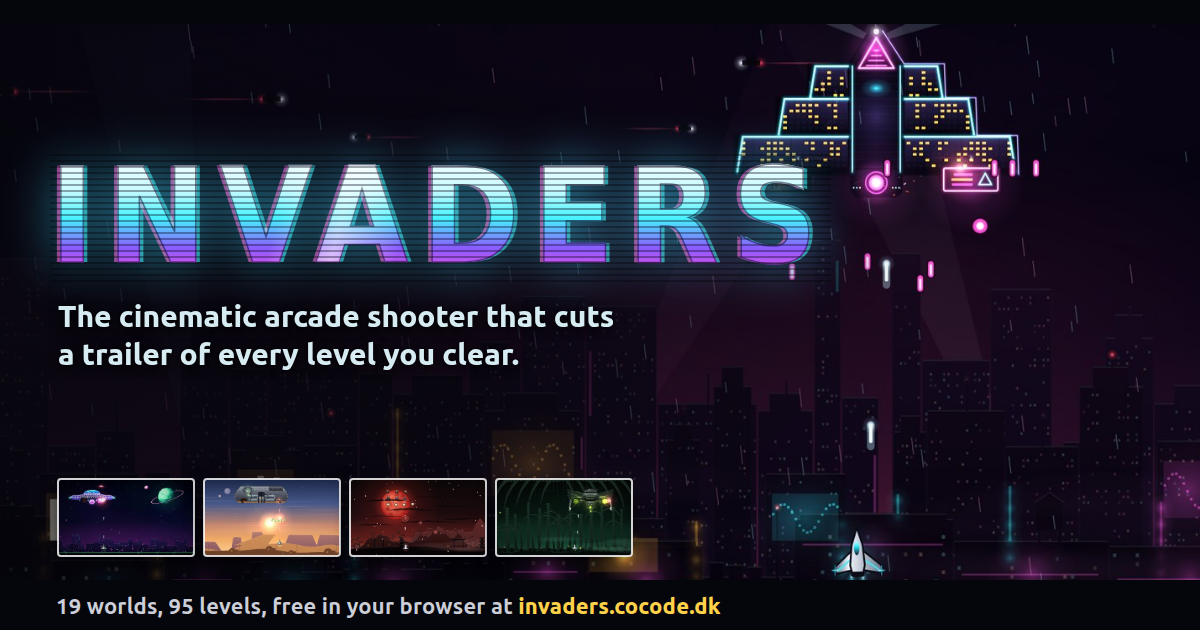
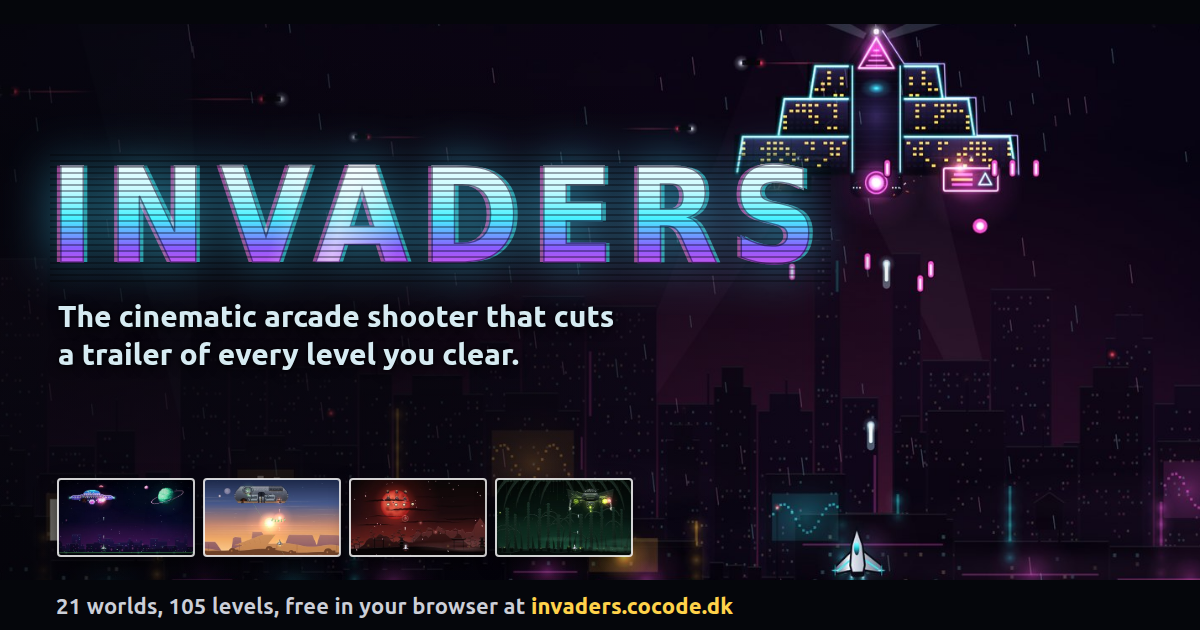
chore: remove the bare lean agent copies; the landing page and social card say 21 worlds (#29)
* chore: remove the bare lean agent copies and name 21 worlds on the landing page

The three files in .claude/agents were copies from the first text of the
session skill; the graph plugin now brings its own agents.
index.html still said 19 worlds and 95 levels.

* fix(og): the social card says 21 worlds, 105 levels

og.html carries the new counts and og.png is the old image with the
bottom bar re-rendered from it: the two differ only inside the text's
box, (56, 596) to (734, 618).

---------

Changed region(s): [[0.1233, 0.9349, 0.6167, 0.9952], [0.0308, 0.9349, 0.0617, 0.9651]]

diff --git a/index.html b/index.html
@@ -9,21 +9,21 @@
   <meta charset="utf-8">
   <meta name="viewport" content="width=device-width, initial-scale=1">
   <title>Invaders — a cinematic arcade shooter in your browser</title>
-  <meta name="description" content="Free cinematic arcade shooter in your browser: 19 worlds, 95 levels, bosses and power-ups. Clear a level and the game cuts a trailer of your own run.">
+  <meta name="description" content="Free cinematic arcade shooter in your browser: 21 worlds, 105 levels, bosses and power-ups. Clear a level and the game cuts a trailer of your own run.">
   <meta name="robots" content="index, follow">
   <meta name="theme-color" content="#05060b">
   <meta name="color-scheme" content="dark">
   <meta property="og:type" content="website">
   <meta property="og:site_name" content="Invaders">
   <meta property="og:title" content="Invaders — the arcade shooter that cuts a trailer of your run">
-  <meta property="og:description" content="Fly free, break alien formations and beat a boss in each of 19 worlds. Every level you clear becomes a movie trailer of your run, and the Cinema keeps your best. Free in your browser.">
+  <meta property="og:description" content="Fly free, break alien formations and beat a boss in each of 21 worlds. Every level you clear becomes a movie trailer of your run, and the Cinema keeps your best. Free in your browser.">
   <meta property="og:image:width" content="1200">
   <meta property="og:image:height" content="630">
   <meta property="og:image:alt" content="The INVADERS logo over a neon city at night, a pyramid-shaped boss firing down at the player's ship, and frames from four other worlds">
   <meta property="og:locale" content="en_US">
   <meta name="twitter:card" content="summary_large_image">
   <meta name="twitter:title" content="Invaders — the arcade shooter that cuts a trailer of your run">
-  <meta name="twitter:description" content="Fly free, break alien formations and beat a boss in each of 19 worlds. Every level you clear becomes a movie trailer of your run, and the Cinema keeps your best. Free in your browser.">
+  <meta name="twitter:description" content="Fly free, break alien formations and beat a boss in each of 21 worlds. Every level you clear becomes a movie trailer of your run, and the Cinema keeps your best. Free in your browser.">
   <meta name="twitter:image:alt" content="The INVADERS logo over a neon city at night, a pyramid-shaped boss firing down at the player's ship, and frames from four other worlds">
   <link rel="canonical" href="https://invaders.cocode.dk/">
   <meta property="og:url" content="https://invaders.cocode.dk/">
@@ -34,7 +34,7 @@
     "@context": "https://schema.org",
     "@type": "VideoGame",
     "name": "Invaders",
-    "description": "Free cinematic arcade shooter in your browser: 19 worlds, 95 levels, bosses and power-ups. Clear a level and the game cuts a trailer of your own run.",
+    "description": "Free cinematic arcade shooter in your browser: 21 worlds, 105 levels, bosses and power-ups. Clear a level and the game cuts a trailer of your own run.",
     "url": "https://invaders.cocode.dk/",
     "image": "https://invaders.cocode.dk/og.png",
     "genre": ["Shooter", "Arcade"],

diff --git a/og.html b/og.html
@@ -64,6 +64,6 @@
     <li><img src="docs/og/w4.jpg" alt=""></li>
     <li><img src="docs/og/w5.jpg" alt=""></li>
   </ul>
-  <div class="bar bottom"><p class="play">19 worlds, 95 levels, free in your browser at <b>invaders.cocode.dk</b></p></div>
+  <div class="bar bottom"><p class="play">21 worlds, 105 levels, free in your browser at <b>invaders.cocode.dk</b></p></div>
 </body>
 </html>
